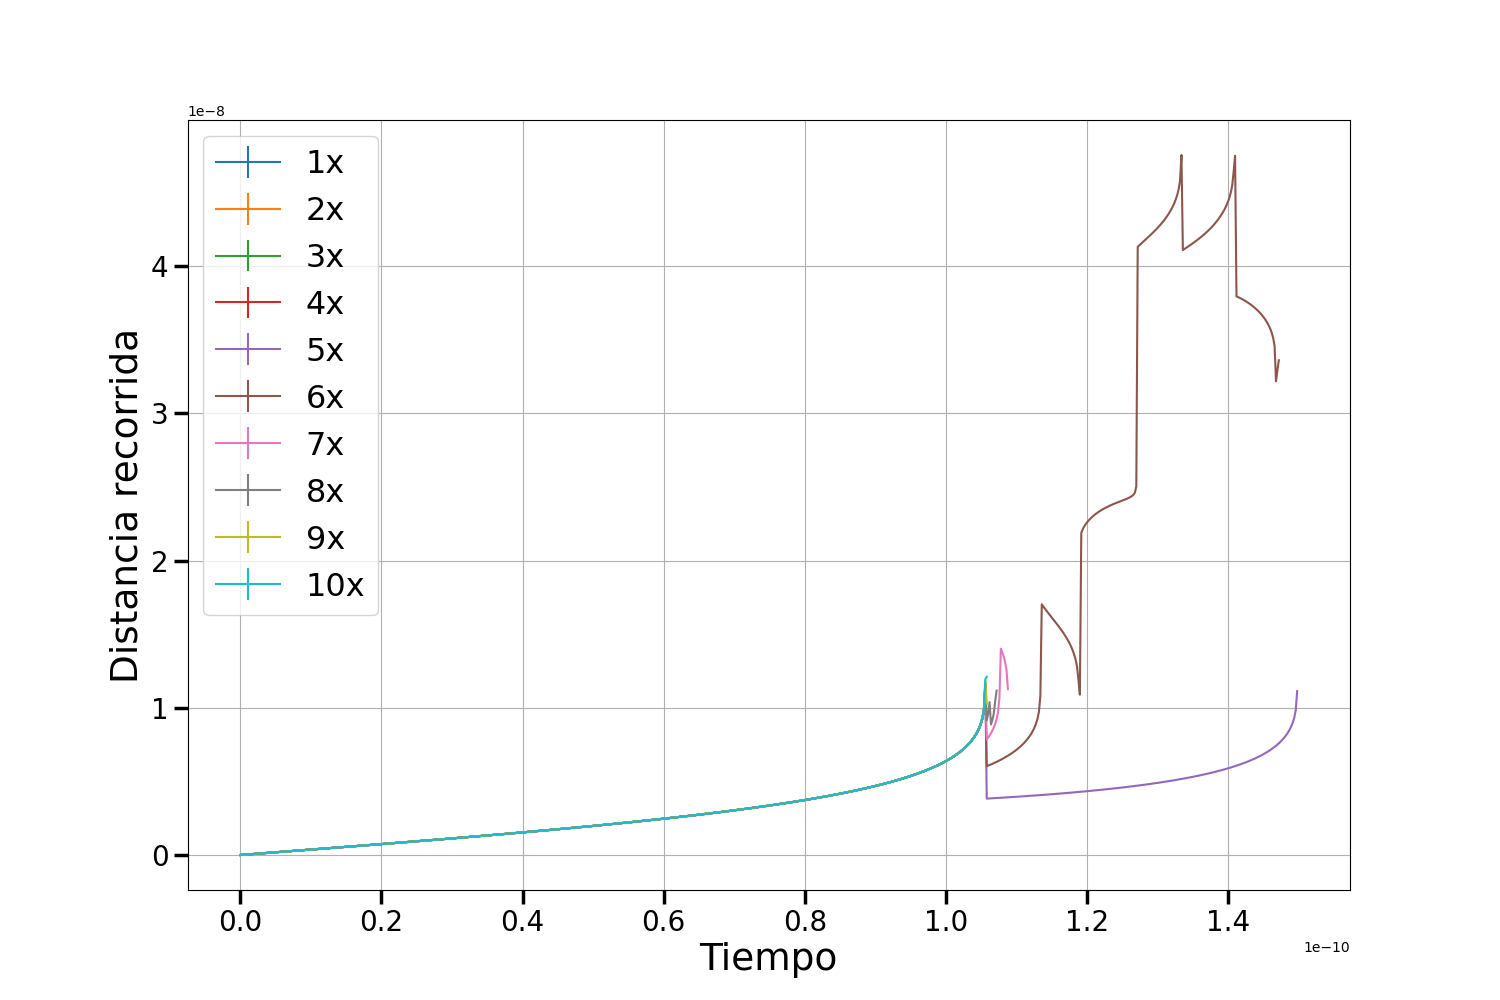
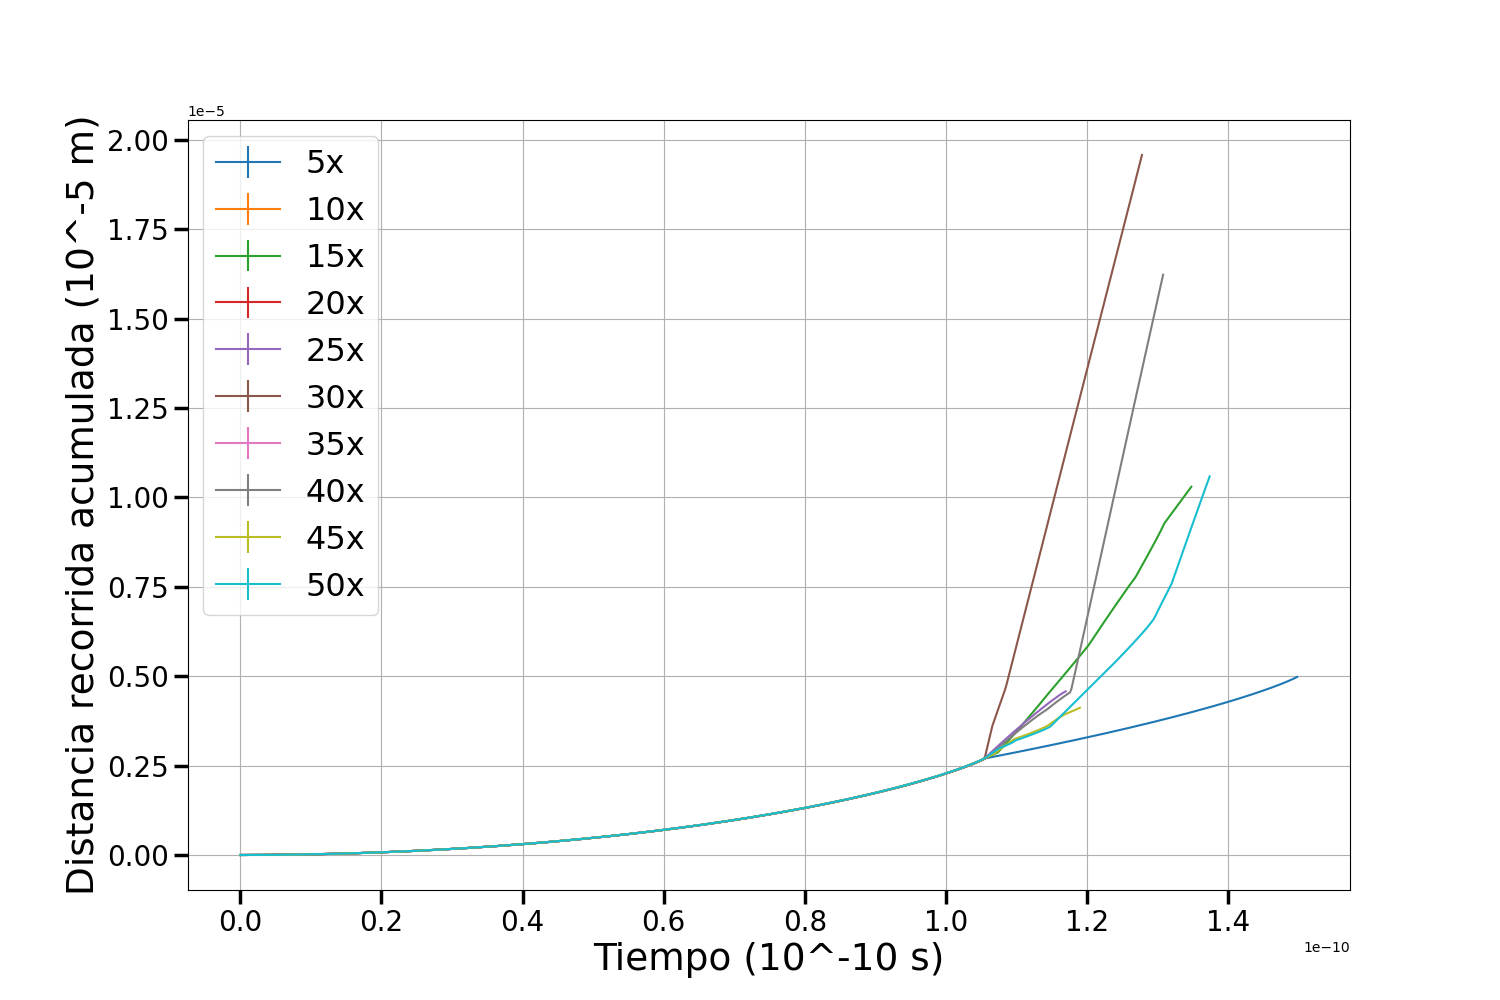
ADD 2.4

diff --git a/tp4/src/main/java/grupo4/itba/edu/ar/App.java b/tp4/src/main/java/grupo4/itba/edu/ar/App.java
@@ -34,8 +34,9 @@ public class App
         int seed = 6432121;
 
         // defaultRun(mass, D, dT, seed, v);
-        energyThroughDifferentDts();
+        // energyThroughDifferentDts();
         // particleLengthsByVelocity(mass, D, dT, seed, v);
+        endStatesByVelocity(mass, D, dT, seed, v);
     }
 
     private static void defaultRun(double mass, double D, double dT, int seed, Vector2 v) {
@@ -127,7 +128,7 @@ public class App
     private static void particleLengthsByVelocity(double mass, double D, double dT, int seed, Vector2 normalVelocity) {
         // Variable conditions
         int samplePoints = 100; // amount of point equally distributed between L/2-D and L/2+D
-        double[] velocityModulos = new double[]{1, 2, 3, 4, 5, 6, 7, 8, 9, 10};
+        double[] velocityModulos = new double[]{5, 10, 15, 20, 25, 30, 35, 40, 45, 50};
         
         normalVelocity = Vector2.div(normalVelocity, Vector2.abs(normalVelocity));  // normalization
         for (double vM : velocityModulos) {
@@ -179,6 +180,82 @@ public class App
                         .append( System.lineSeparator() );
                     i++;
                 }
+                writer.write( builder.toString() );
+                writer.flush();
+            }
+            catch ( IOException e ) {
+                e.printStackTrace();
+            }
+        }
+    }
+
+    //2.4
+    private static void endStatesByVelocity(double mass, double D, double dT, int seed, Vector2 normalVelocity) {
+        // Variable conditions
+        int seedAmounts = 100;
+        double[] velocityModulos = new double[]{5, 10, 15, 20, 25, 30, 35, 40, 45, 50};
+        
+        normalVelocity = Vector2.div(normalVelocity, Vector2.abs(normalVelocity));  // normalization
+        for (double vM : velocityModulos) {
+            List<EndState> endStates = new LinkedList<>();
+            Vector2 vel = Vector2.dot(normalVelocity, vM);
+            for (int i = 0; i < seedAmounts; i++) {
+                ParticlePropagation pp = new ParticlePropagation(D, vel, mass, dT, i);
+                EndState endState = pp.run(false);
+                // System.out.print(pp.calculatePathLength().stream().reduce(0.0, Double::sum) + ", ");
+                endStates.add(endState);
+            }
+            
+            int leftWall = 0;
+            int rightWall = 0;
+            int upperWall = 0;
+            int lowerWall = 0;
+            int inside = 0;
+            for (EndState endState : endStates) {
+                switch (endState) {
+                    case LEFT_WALL:
+                        leftWall++;
+                        break;
+                    case RIGHT_WALL:
+                        rightWall++;
+                        break;
+                    case UPPER_WALL:
+                        upperWall++;
+                        break;
+                    case LOWER_WALL:
+                        lowerWall++;
+                        break;
+                    case INSIDE:
+                        inside++;
+                        break;
+                    default:
+                        break;
+                }
+            }
+            // rightWall /= listOfEndStates.size();
+            // leftWall /= listOfEndStates.size();
+            // upperWall /= listOfEndStates.size();
+            // lowerWall /= listOfEndStates.size();
+            // inside /= listOfEndStates.size();
+            System.out.println(rightWall + " " + leftWall + " " + upperWall + " " + lowerWall + " " + inside);
+
+            // Output to file
+            String dumpFilename = "ej2_4/vM_" + (int)vM;
+
+            dumpFilename = dumpFilename.replace( ".", "" );
+            File dump = new File( dumpFilename + ".csv" );
+
+            try ( BufferedWriter writer = new BufferedWriter( new FileWriter( dump ) ) ) {
+                StringBuilder builder = new StringBuilder();
+                builder.append( leftWall )
+                        .append( System.lineSeparator() )
+                        .append( rightWall )
+                        .append( System.lineSeparator() )
+                        .append( upperWall )
+                        .append( System.lineSeparator() )
+                        .append( lowerWall )
+                        .append( System.lineSeparator() )
+                        .append( inside );
                 writer.write( builder.toString() );
                 writer.flush();
             }

diff --git a/tp4/src/main/java/grupo4/itba/edu/ar/ParticlePropagation/ParticlePropagation.java b/tp4/src/main/java/grupo4/itba/edu/ar/ParticlePropagation/ParticlePropagation.java
@@ -156,7 +156,7 @@ public class ParticlePropagation
 
     private EndState outOfBounds() {
         Vector2 pos = this.particle.getPos();
-        if ( pos.getX() < -D ) {
+        if ( pos.getX() < -2 * D ) {
             return EndState.LEFT_WALL;
         }
         else if ( pos.getX() > L ) {
@@ -173,6 +173,7 @@ public class ParticlePropagation
 
     public List<Double> calculatePathLength() {
         Vector2 prevPos = null;
+        double totalLength = 0.0;
         List<Double> lengths = new LinkedList<>();
         for ( Vector2 pos : particlePositions ) {
             if ( prevPos == null ) {
@@ -180,7 +181,8 @@ public class ParticlePropagation
                 continue;
             }
 
-            lengths.add( Vector2.abs( Vector2.sub( pos, prevPos ) ) );
+            totalLength += Vector2.abs( Vector2.sub( pos, prevPos ) );
+            lengths.add( totalLength );
         }
 
         return lengths;

diff --git a/2_4.py b/2_4.py
@@ -1,0 +1,22 @@
+import matplotlib.pyplot as plt
+import matplotlib
+import sys
+
+
+vMs = [i for i in range(5, 55, 5)]
+for vM in vMs:
+    fig = plt.figure(figsize=(15,10))
+    ax1 = fig.add_subplot(111)
+    # ax1.set_xlabel('Tiempo (10^-10 s)', fontsize=27)
+    # ax1.set_ylabel('Distancia recorrida acumulada (10^-5 m)', fontsize=27)
+    ax1.tick_params(axis='both', which='major', labelsize=20, width=2.5, length=10)
+    with open(f'ej2_4/vM_{vM}.csv') as f:
+        lines = f.readlines()
+        y = [int(line) for line in lines]
+    plt.pie(y)
+    plt.legend( labels = [f'Izquierda - {y[0]}', f'Derecha - {y[1]}', f'Arriba - {y[2]}', f'Abajo - {y[3]}', f'Adentro - {y[4]}'], fontsize=27)
+
+    fig1=plt.gcf()
+    # plt.show()
+    plt.draw()
+    plt.savefig(f'ej2_4/pie_vM{vM}.png')

diff --git a/2_3.py b/2_3.py
@@ -4,11 +4,11 @@ import sys
 
 fig = plt.figure(figsize=(15,10))
 ax1 = fig.add_subplot(111)
-ax1.set_xlabel('Tiempo', fontsize=27)
-ax1.set_ylabel('Distancia recorrida', fontsize=27)
+ax1.set_xlabel('Tiempo (10^-10 s)', fontsize=27)
+ax1.set_ylabel('Distancia recorrida acumulada (10^-5 m)', fontsize=27)
 ax1.tick_params(axis='both', which='major', labelsize=20, width=2.5, length=10)
 
-vMs = [i+1 for i in range(10)]
+vMs = [i for i in range(5, 55, 5)]
 for vM in vMs:
     with open(f'ej2_3/vM_{vM}.csv') as f:
         lines = f.readlines()
